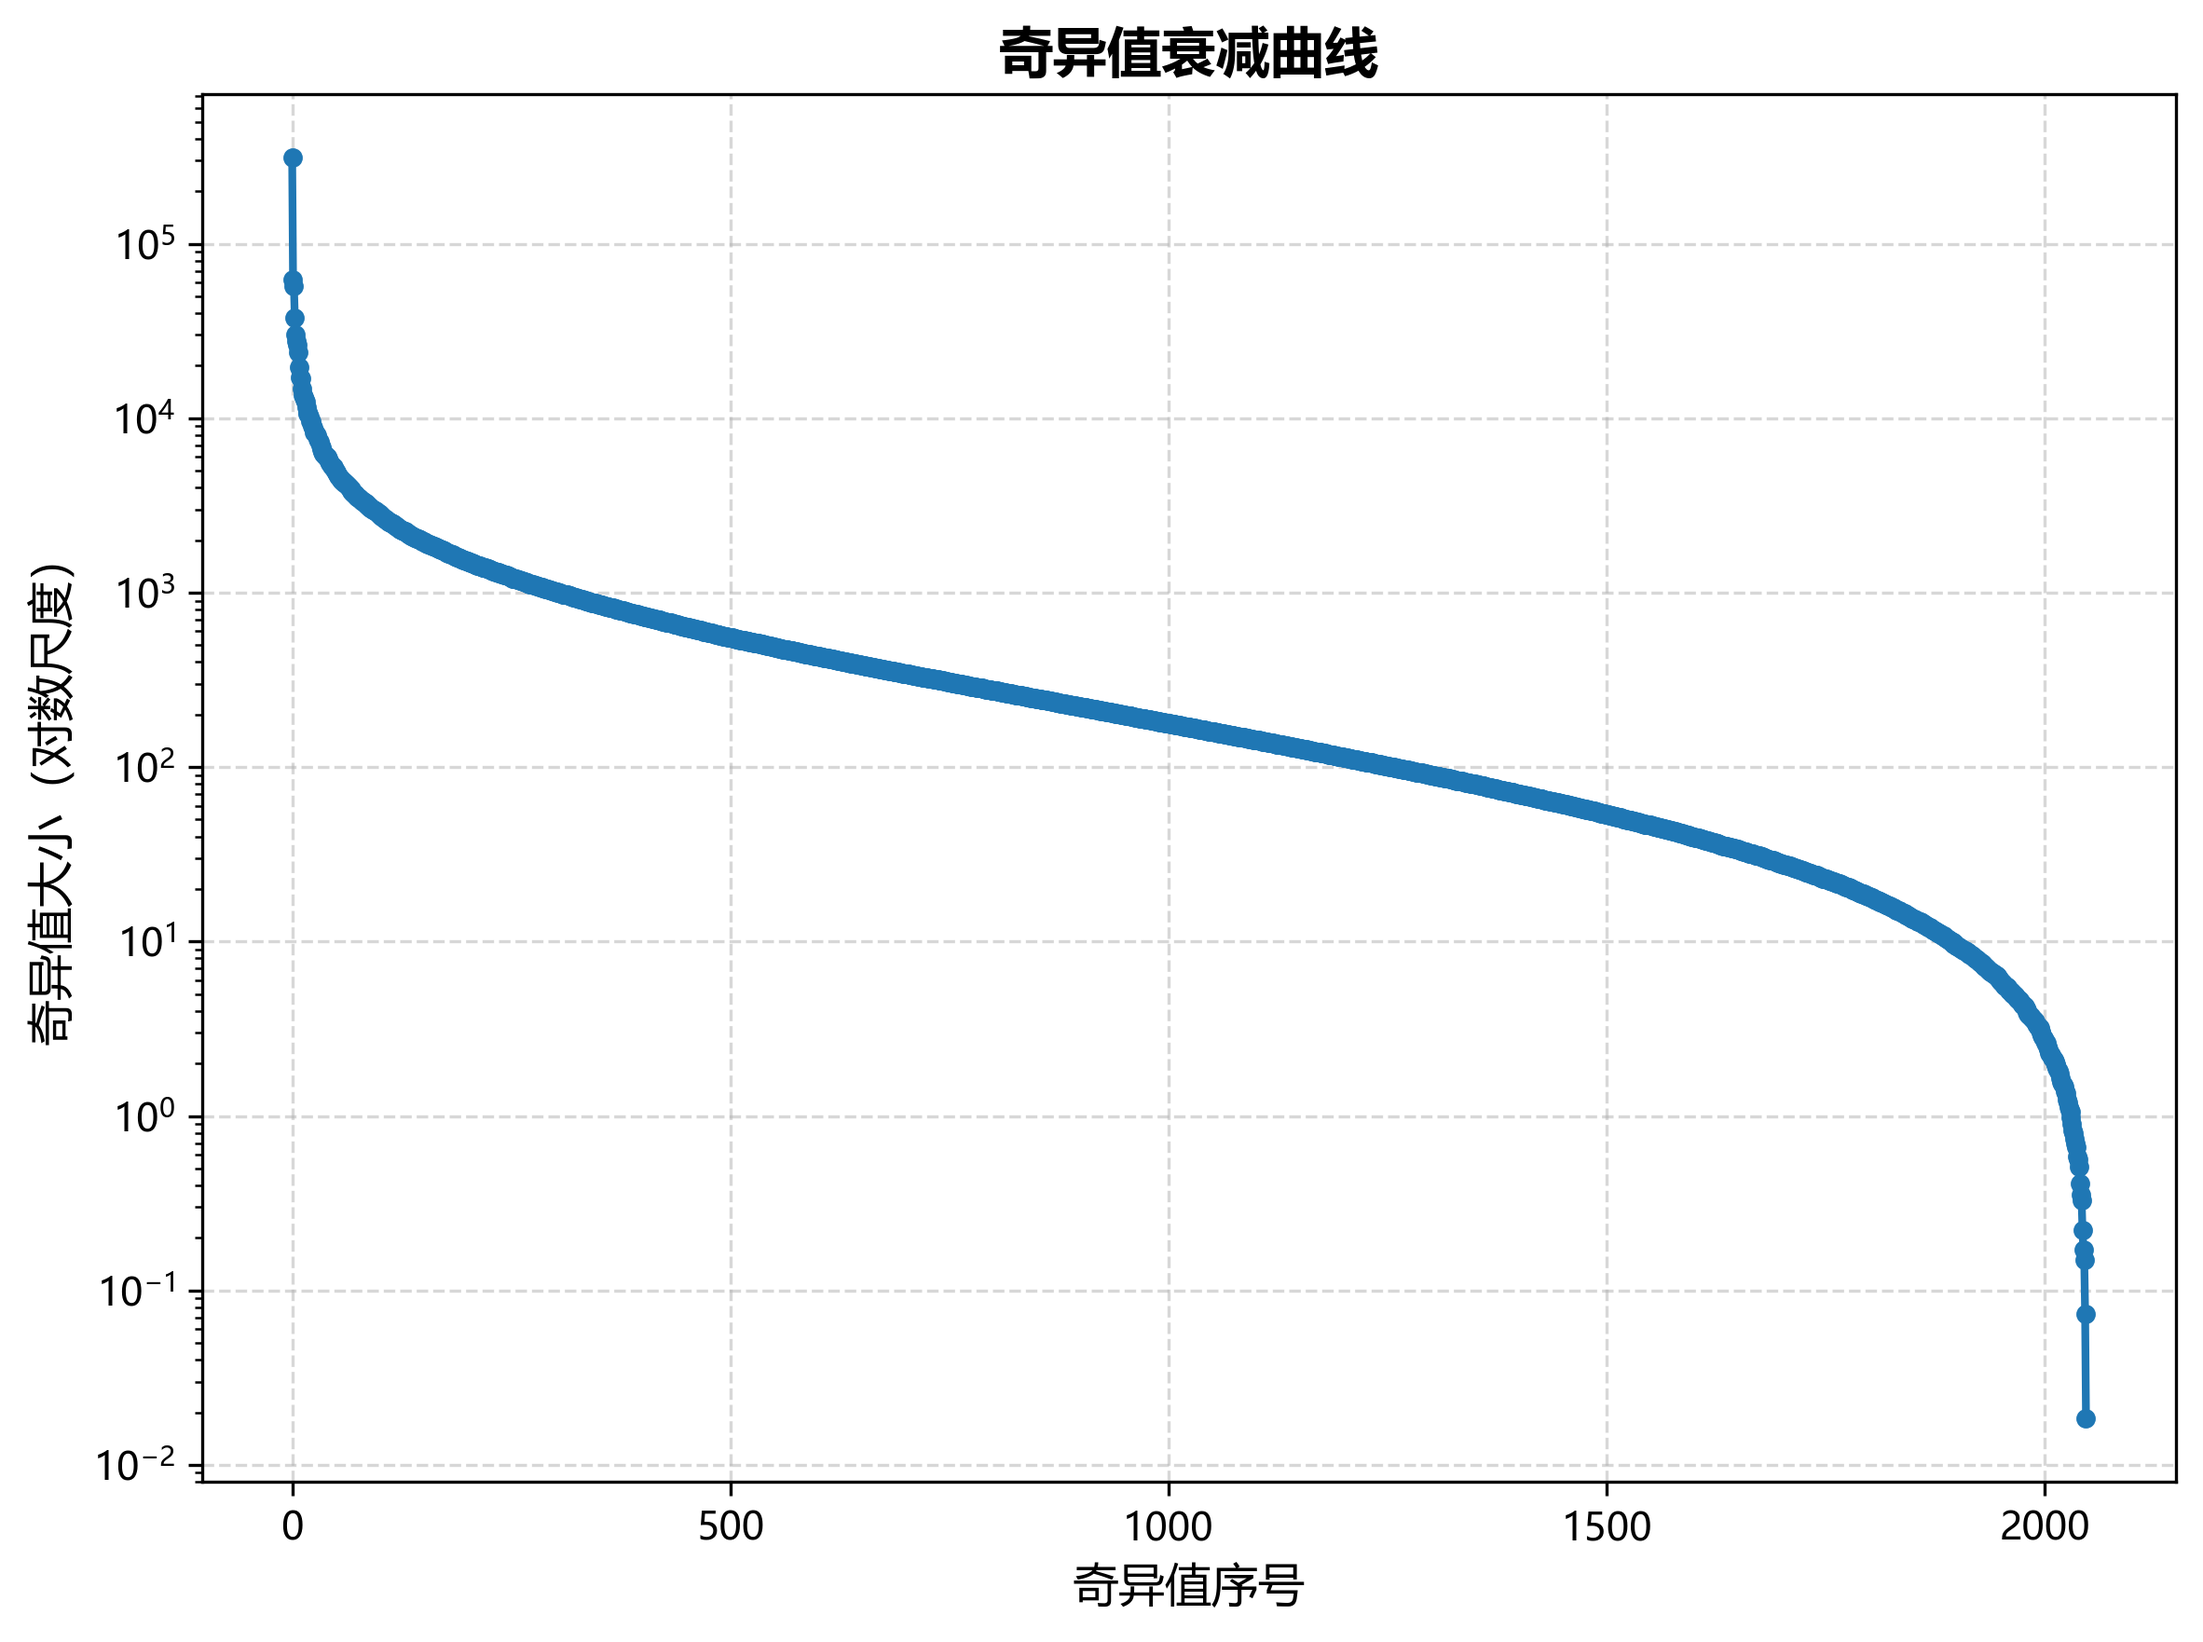
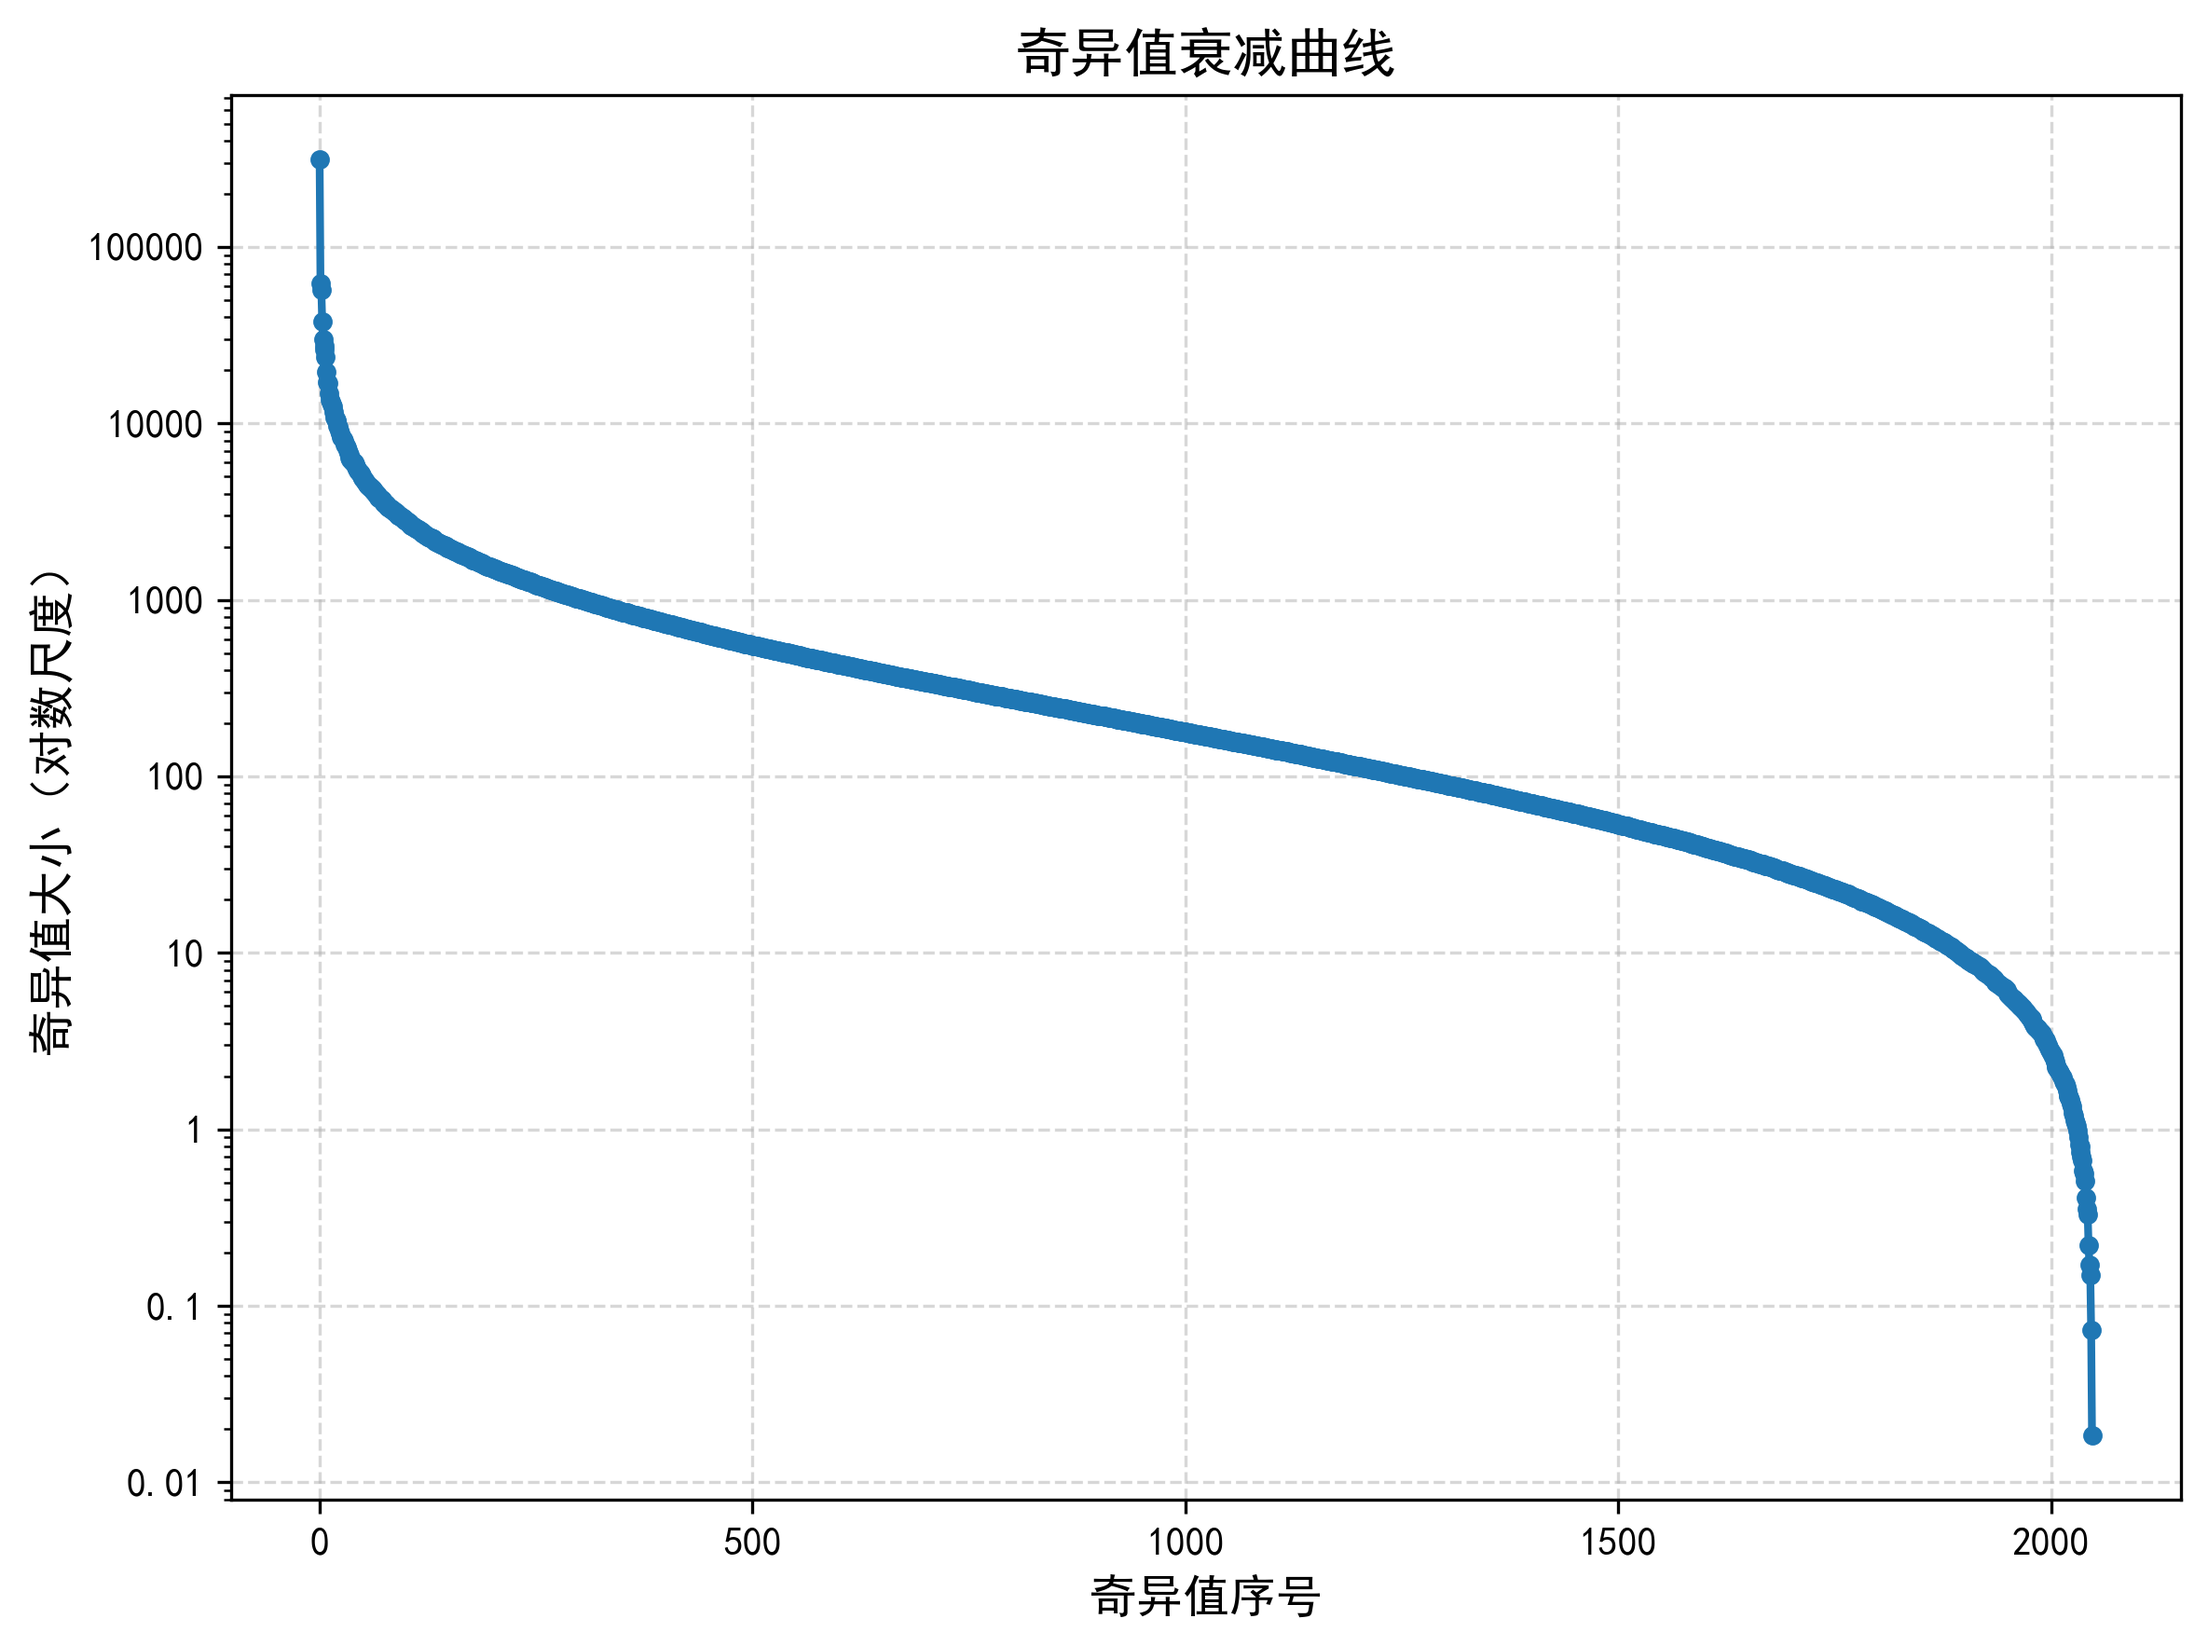
finish: 机器学习上机6奇异值分解

diff --git a/ML/Exp6/svd_裁切示例.py b/ML/Exp6/svd_裁切示例.py
@@ -1,0 +1,133 @@
+"""
+SVD 矩阵裁切与重建的详细示例
+演示如何提取前 k 层进行图像重建
+"""
+
+import numpy as np
+
+# 创建一个小的示例矩阵
+print("=" * 60)
+print("示例：4×5 矩阵的 SVD 分解与裁切")
+print("=" * 60)
+
+A = np.array([
+    [1, 2, 3, 4, 5],
+    [2, 4, 6, 8, 10],
+    [1, 1, 1, 1, 1],
+    [3, 2, 1, 0, -1]
+], dtype=float)
+
+print("\n原始矩阵 A (4×5):")
+print(A)
+
+# SVD 分解
+U, S, VT = np.linalg.svd(A, full_matrices=False)
+
+print("\n" + "=" * 60)
+print("完整 SVD 分解结果:")
+print("=" * 60)
+print(f"\nU 的形状: {U.shape}")
+print("U (左奇异向量矩阵):")
+print(U)
+
+print(f"\nS 的形状: {S.shape}")
+print("S (奇异值向量，按降序排列):")
+print(S)
+
+print(f"\nVT 的形状: {VT.shape}")
+print("VT (右奇异向量矩阵的转置):")
+print(VT)
+
+# 验证重建
+A_reconstructed = U @ np.diag(S) @ VT
+print("\n验证完整重建 (U @ diag(S) @ VT):")
+print(A_reconstructed)
+print(f"重建误差: {np.linalg.norm(A - A_reconstructed):.2e}")
+
+print("\n" + "=" * 60)
+print("使用前 k=2 层进行低秩近似")
+print("=" * 60)
+
+k = 2
+
+# 方法1：显式构造对角矩阵
+print(f"\n方法1：U[:, :k] @ diag(S[:k]) @ VT[:k, :]")
+U_k = U[:, :k]          # 取前2列
+S_k = S[:k]             # 取前2个奇异值
+VT_k = VT[:k, :]        # 取前2行
+
+print(f"U_k 形状: {U_k.shape} = (4, 2)")
+print(f"U_k (前2个左奇异向量):\n{U_k}")
+
+print(f"\nS_k 形状: {S_k.shape} = (2,)")
+print(f"S_k (前2个奇异值): {S_k}")
+
+print(f"\nVT_k 形状: {VT_k.shape} = (2, 5)")
+print(f"VT_k (前2个右奇异向量):\n{VT_k}")
+
+A_k_method1 = U_k @ np.diag(S_k) @ VT_k
+print(f"\n低秩重建结果 A_k (方法1):")
+print(A_k_method1)
+
+# 方法2：广播优化（你的代码使用的方法）
+print(f"\n方法2（高效）：(U[:, :k] * S[:k]) @ VT[:k, :]")
+A_k_method2 = (U[:, :k] * S[:k]) @ VT[:k, :]
+print(f"低秩重建结果 A_k (方法2):")
+print(A_k_method2)
+
+print(f"\n两种方法结果是否相同: {np.allclose(A_k_method1, A_k_method2)}")
+
+# 分层展示每个奇异值的贡献
+print("\n" + "=" * 60)
+print("每一层的贡献（每个奇异值对应的秩-1矩阵）")
+print("=" * 60)
+
+for i in range(min(3, len(S))):
+    layer = S[i] * np.outer(U[:, i], VT[i, :])
+    print(f"\n第 {i+1} 层 (σ_{i+1} = {S[i]:.4f}):")
+    print(f"σ_{i+1} × u_{i+1} × v_{i+1}^T =")
+    print(layer)
+    print(f"该层的范数: {np.linalg.norm(layer):.4f}")
+
+# 展示不同 k 值的重建效果
+print("\n" + "=" * 60)
+print("不同秩的重建误差对比")
+print("=" * 60)
+
+print(f"\n{'k':<5} {'重建误差':<15} {'相对误差':<15} {'存储量(相对)':<15}")
+print("-" * 60)
+original_size = A.shape[0] * A.shape[1]
+for k in range(1, len(S) + 1):
+    A_k = (U[:, :k] * S[:k]) @ VT[:k, :]
+    error = np.linalg.norm(A - A_k)
+    relative_error = error / np.linalg.norm(A)
+    storage = k * (U.shape[0] + VT.shape[1] + 1)
+    storage_ratio = storage / original_size
+    print(f"{k:<5} {error:<15.6f} {relative_error:<15.6%} {storage_ratio:<15.2%}")
+
+print("\n" + "=" * 60)
+print("可视化矩阵裁切过程")
+print("=" * 60)
+
+k = 2
+print(f"""
+完整 SVD:
+A (4×5) = U (4×4) @ Σ (4×5) @ V^T (5×5)
+
+取前 k={k} 层:
+              ┌─────┬───┐           ┌─────┬───┐         ┌─────────┐
+              │     │   │           │ σ₁  │ 0 │         │ v₁^T    │
+U[:, :{k}] =   │ u₁  │u₂ │   Σ[:{k}] = │  0  │σ₂ │   VT[:{k}, :] = │ ─────── │
+              │     │   │           └─────┴───┘         │ v₂^T    │
+              └─────┴───┘                               └─────────┘
+               (4 × {k})              ({k} × {k})              ({k} × 5)
+
+重建: A_k = U[:, :{k}] @ diag(S[:{k}]) @ VT[:{k}, :]
+     形状:  (4×{k})   @    ({k}×{k})    @   ({k}×5)  = (4×5)
+""")
+
+print("\n实际数据存储量对比:")
+print(f"原始矩阵 A: {A.shape[0]} × {A.shape[1]} = {A.shape[0] * A.shape[1]} 个数")
+print(f"SVD k={k} 表示: U[:,:k]={U.shape[0]}×{k} + S[:k]={k} + VT[:k,:]={k}×{VT.shape[1]}")
+print(f"               = {U.shape[0] * k} + {k} + {k * VT.shape[1]} = {k * (U.shape[0] + 1 + VT.shape[1])} 个数")
+print(f"压缩率: {k * (U.shape[0] + 1 + VT.shape[1]) / (A.shape[0] * A.shape[1]):.2%}")

diff --git a/ML/Exp6/main.py b/ML/Exp6/main.py
@@ -13,37 +13,17 @@ from typing import Dict, List
 import matplotlib.pyplot as plt
 import numpy as np
 from PIL import Image
+import matplotlib.ticker as mticker
 
-# Matplotlib 中文及符号配置
+# Matplotlib 中文与 mathtext/负号 显示（精简版）
 def _configure_fonts() -> None:
-    from matplotlib import font_manager
-
-    # 常见的支持中文字体
-    preferred_fonts = [
-        "Microsoft YaHei",
-        "Microsoft JhengHei",
-        "SimHei",
-        "STSong",
-        "PingFang HK",
-        "PingFang SC",
-        "Source Han Sans SC",
-        "Noto Sans CJK SC",
-        "DejaVu Sans",
-    ]
-
-    available_fonts = {font.name for font in font_manager.fontManager.ttflist}
-
-    for font_name in preferred_fonts:
-        if font_name in available_fonts:
-            plt.rcParams["font.family"] = [font_name, "sans-serif"]
-            break
-    else:
-        plt.rcParams["font.family"] = ["sans-serif"]
-
-    # 这里有一个特殊操作。由于后面用到了mathtext渲染，如果font.family中包含非ASCII字符，
-    # 则会导致负号等符号显示异常。因此强制让mathtext使用sans-serif字体。
-    plt.rcParams["font.sans-serif"] = plt.rcParams["font.family"]
-    plt.rcParams["axes.unicode_minus"] = False  # 强制采用 ASCII "-"，避免负号乱码
+    # 以 SimHei 为主字体，保证中文不缺字
+    plt.rcParams["font.family"] = ["SimHei"]
+    # 英文/符号可回退到 DejaVu Sans
+    plt.rcParams["font.sans-serif"] = ["SimHei", "DejaVu Sans"]
+    # 负号正常显示（使用 ASCII '-'）
+    plt.rcParams["axes.unicode_minus"] = False
+    # 让 mathtext 使用常规文本风格，避免符号乱码
     plt.rcParams["mathtext.default"] = "regular"
 
 
@@ -167,6 +147,8 @@ def visualize_results(
     ax_sv.set_xlabel("奇异值序号", fontsize=12)
     ax_sv.set_ylabel("奇异值大小（对数尺度）", fontsize=12)
     ax_sv.set_title("奇异值衰减曲线", fontsize=14, fontweight="bold")
+    # 使用 ASCII 科学计数法，避免 Unicode 减号（U+2212）
+    ax_sv.yaxis.set_major_formatter(mticker.FormatStrFormatter('%g'))
     ax_sv.grid(True, linestyle="--", alpha=0.5)
     plt.tight_layout()
 
